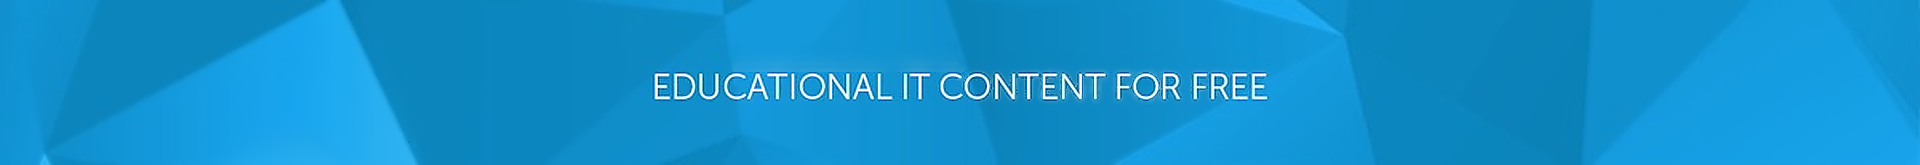
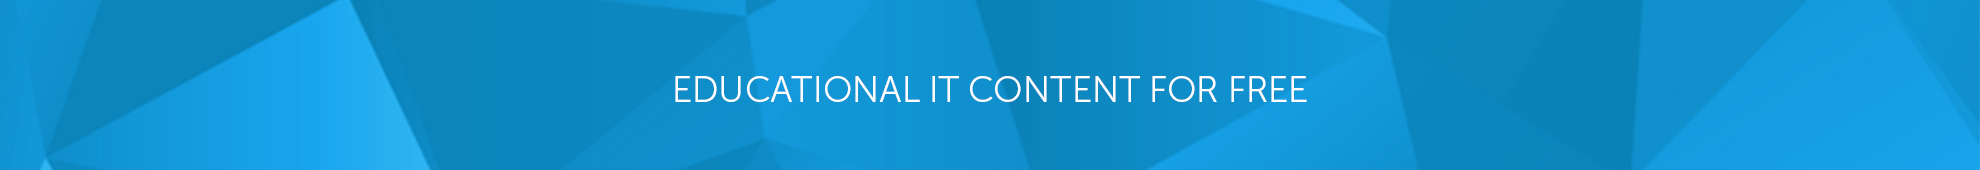
Update header image

Changed region(s): [[0.3438, 0.4242, 0.6562, 0.6061]]

diff --git a/static/sass/_default.scss b/static/sass/_default.scss
@@ -4,7 +4,7 @@ $gray: #767676;
   background-image: url("../themes/default/images/bbf-main.png") !important;
   background-repeat-y: no-repeat;
   background-position: center;
-  height: 165px !important;
+  height: 170px !important;
   border-bottom: none !important;
   box-shadow: none !important;
   .outer-wrapper {
